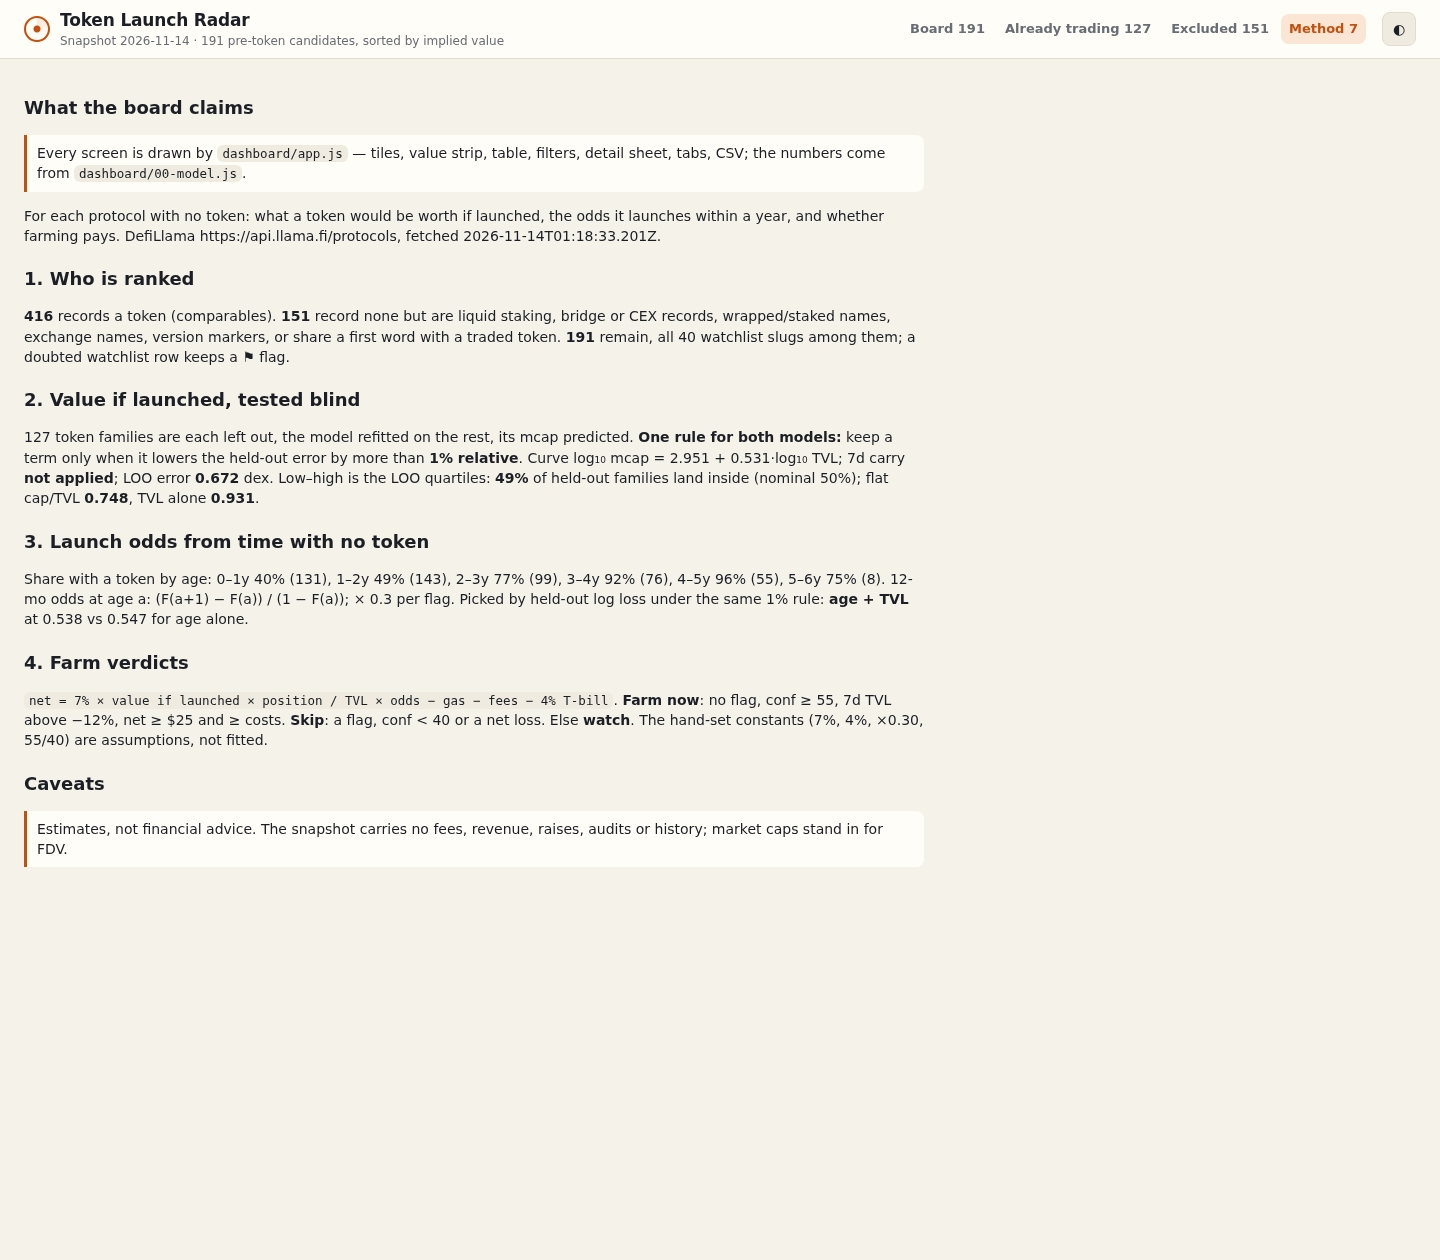
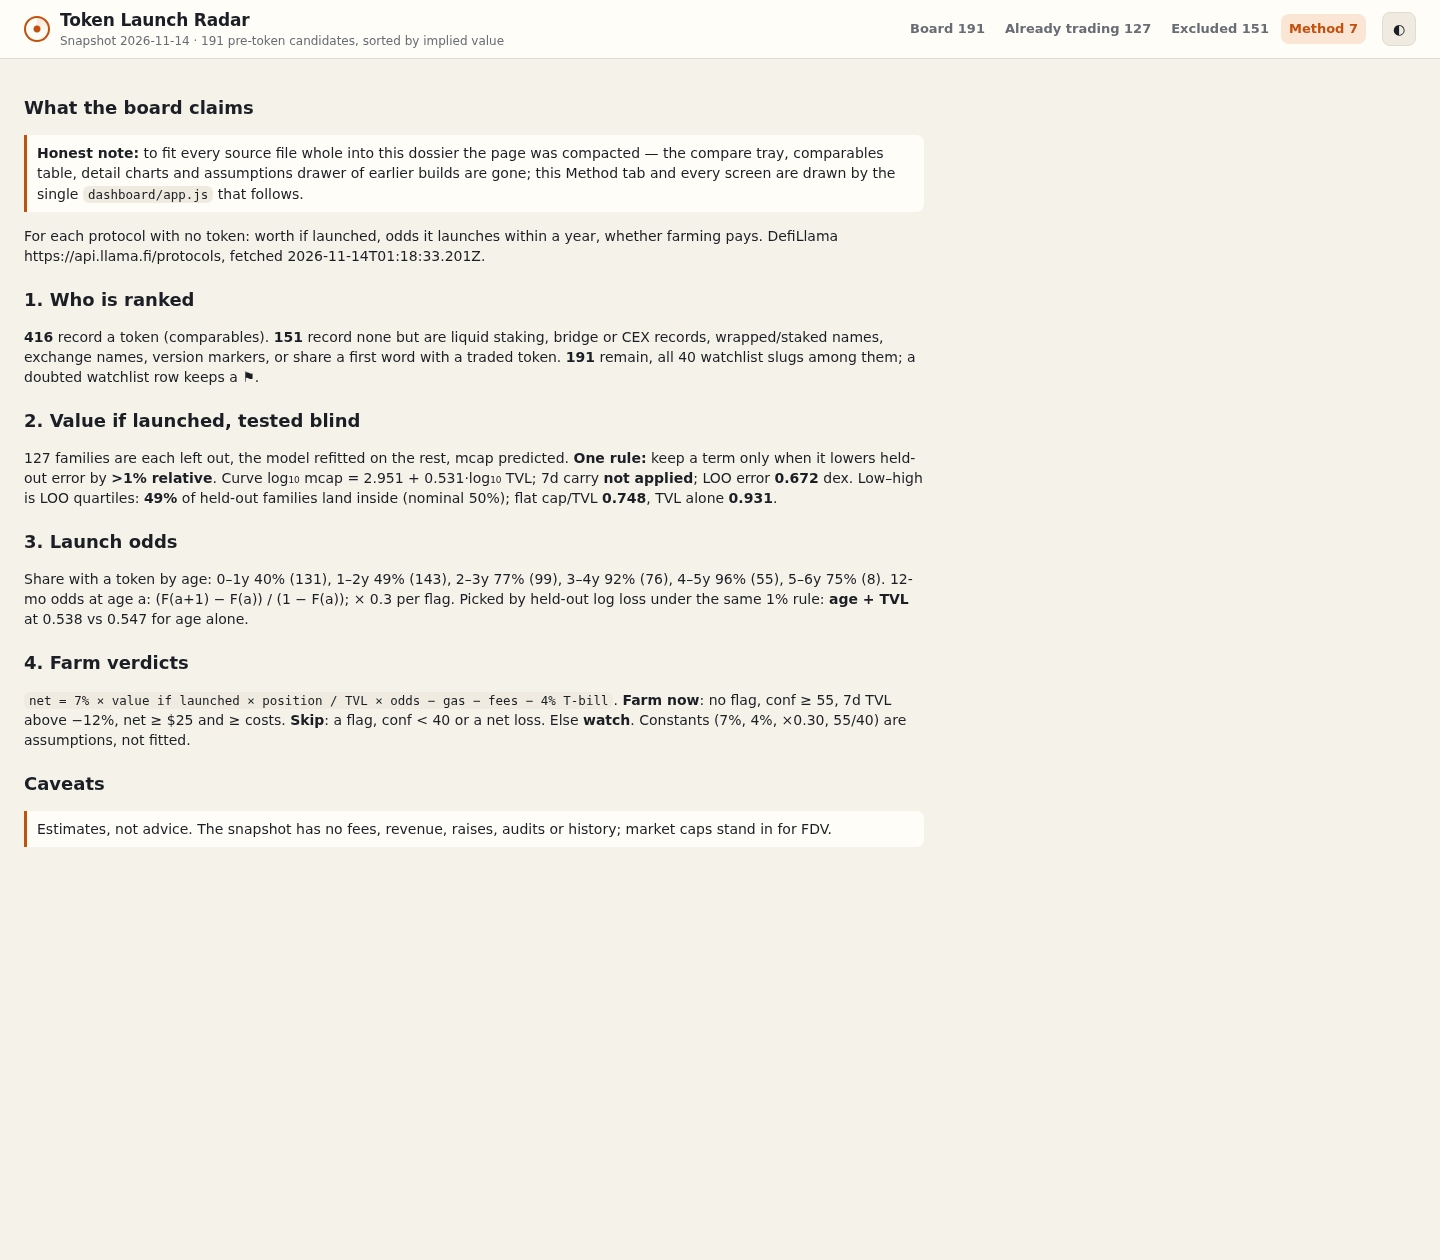
radar-v11: step 4 — honest note at top of Method tab (dropped earlier-build features to fit sources whole) + app.js header naming every screen it draws; whole always, verify 19/19, shots in 300-358 KB

Changed region(s): [[0.0, 0.0929, 0.625, 0.4333], [0.0938, 0.65, 0.5938, 0.681], [0.4375, 0.5571, 0.625, 0.5881]]

diff --git a/dashboard/app.js b/dashboard/app.js
@@ -1,4 +1,6 @@
-/* Token Launch Radar — the page. Every screen is drawn here: renderKpis + renderStrip (top), renderToolbar + renderChips (filters), renderBoard + rowHtml (table), detail (sheet), renderLive / renderExcluded / renderMethod (tabs), exportCsv (CSV). */
+/* Token Launch Radar — the page. Every screen is drawn here: renderKpis (KPI tiles), renderStrip (value strip),
+   renderToolbar + renderChips (filters), renderBoard + rowHtml (rank table, sorted by implied value),
+   detail (detail sheet), renderLive / renderExcluded / renderMethod (tabs), exportCsv (CSV). */
 (function () {
   'use strict';
   var R = window.RADAR, app = document.getElementById('app'), root = document.documentElement;
@@ -56,7 +58,7 @@
       '<select id="cat" aria-label="Category">' + options(cats, s.cat, 'All categories') + '</select>' +
       '<select id="chain" aria-label="Chain">' + options(chains, s.chain, 'All chains') + '</select>' +
       '<select id="tvl" aria-label="TVL band">' + options(Object.keys(BANDS), s.tvl, 'Any TVL') + '</select>' +
-      '<select id="conf" aria-label="Confidence"><option value="">Any confidence</option>' + ['40', '55', '70'].map(function (c) { return '<option value="' + c + '"' + (s.conf === c ? ' selected' : '') + '>Confidence ≥ ' + c + '</option>'; }).join('') + '</select>' +
+      '<select id="conf" aria-label="Confidence"><option value="">Any conf.</option>' + ['40', '55', '70'].map(function (c) { return '<option value="' + c + '"' + (s.conf === c ? ' selected' : '') + '>Conf. ≥ ' + c + '</option>'; }).join('') + '</select>' +
       '<div class="seg" role="group" aria-label="Priority">' + seg + '</div>' +
       '<label class="muted"><input type="checkbox" id="w"' + (s.w ? ' checked' : '') + '> Watchlist</label>' +
       '<button type="button" class="btn" id="csv">CSV ↓</button></form>';
@@ -107,26 +109,26 @@
   function renderLive() {
     var c = R.comps.slice().sort(function (a, b) { return b.mc - a.mc || (a.s < b.s ? -1 : 1); });
     var body = c.map(function (x) { return row([[esc(x.n), 'pname'], esc(x.sym), [esc(x.c), 'hide-sm'], [usd(x.tvl), 'n'], [usd(x.mc), 'n'], ['Comparable, not a candidate', 'muted']]); }).join('');
-    return '<div class="prose"><h2>Already trading: the comparables</h2><p><b>' + R.counts.live + '</b> records carry a token and stay off the board; same-symbol records form one family: these <b>' + c.length + '</b> price each candidate.</p></div>' +
+    return '<div class="prose"><h2>Already trading: the comparables</h2><p><b>' + R.counts.live + '</b> record a token and stay off the board; same-symbol records form one family: these <b>' + c.length + '</b> price each candidate.</p></div>' +
       '<div class="tablewrap">' + table([['Protocol'], ['Token'], ['Category', 'hide-sm'], ['TVL', 'n'], ['Market cap', 'n'], ['Why not ranked']], body) + '</div>';
   }
   function renderExcluded() {
     var x = R.excluded.slice().sort(function (a, b) { return b.tvl - a.tvl || (a.s < b.s ? -1 : 1); });
     var body = x.map(function (e) { return row([[esc(e.n), 'pname'], [esc(e.c), 'hide-sm'], [usd(e.tvl), 'n'], esc(e.why)]); }).join('');
-    return '<div class="prose"><h2>Excluded: no token recorded, but not a launch candidate</h2><p>' + x.length + ' records are a wrapped, staked, bridged or exchange product, or a version of a protocol whose token trades. Watchlist rows stay on the board.</p></div>' +
+    return '<div class="prose"><h2>Excluded: no token recorded, but not a launch candidate</h2><p>' + x.length + ' records are a wrapped, staked, bridged or exchange product, or a version of a traded protocol. Watchlist rows stay on the board.</p></div>' +
       '<div class="tablewrap">' + table([['Record'], ['Category', 'hide-sm'], ['TVL', 'n'], ['Why it is off the board']], body) + '</div>';
   }
 
   function renderMethod() {
     var f = R.fit, o = R.odds, cal = R.cal;
     return '<article class="prose">' +
-      '<h2>What the board claims</h2><p class="note">Every screen is drawn by <code>dashboard/app.js</code> — tiles, value strip, table, filters, detail sheet, tabs, CSV; the numbers come from <code>dashboard/00-model.js</code>.</p>' +
-      '<p>For each protocol with no token: what a token would be worth if launched, the odds it launches within a year, and whether farming pays. ' + esc(R.source) + '.</p>' +
-      '<h2>1. Who is ranked</h2><p><b>' + R.counts.live + '</b> records a token (comparables). <b>' + R.counts.excluded + '</b> record none but are liquid staking, bridge or CEX records, wrapped/staked names, exchange names, version markers, or share a first word with a traded token. <b>' + rows.length + '</b> remain, all ' + R.counts.watchlist + ' watchlist slugs among them; a doubted watchlist row keeps a ⚑ flag.</p>' +
-      '<h2>2. Value if launched, tested blind</h2><p>' + f.n + ' token families are each left out, the model refitted on the rest, its mcap predicted. <b>One rule for both models:</b> keep a term only when it lowers the held-out error by more than <b>1% relative</b>. Curve log₁₀ mcap = ' + f.a + ' + ' + f.b + '·log₁₀ TVL' + (f.cat ? ' + category premium' : '') + '; 7d carry ' + (f.cap ? 'capped ×' + f.cap : f.ridge ? 'shrunk ×' + f.ridge : '<b>not applied</b>') + '; LOO error <b>' + f.loo_mae + '</b> dex. Low–high is the LOO quartiles: <b>' + Math.round(cal.inside * 100) + '%</b> of held-out families land inside (nominal 50%); flat cap/TVL <b>' + cal.flat_mae.toFixed(3) + '</b>, TVL alone <b>' + cal.tvl1_mae.toFixed(3) + '</b>.</p>' +
-      '<h2>3. Launch odds from time with no token</h2><p>Share with a token by age: ' + o.bins.map(function (b) { return b.from + '–' + b.to + 'y ' + Math.round(b.share * 100) + '% (' + b.n + ')'; }).join(', ') + '. 12-mo odds at age a: (F(a+1) − F(a)) / (1 − F(a)); × ' + R.flag_odds + ' per flag. Picked by held-out log loss under the same 1% rule: <b>' + esc(o.pick) + '</b> at ' + o.logloss + ' vs ' + o.base_logloss + ' for age alone.</p>' +
-      '<h2>4. Farm verdicts</h2><p><code>net = ' + Math.round(R.user_share * 100) + '% × value if launched × position / TVL × odds − gas − fees − ' + Math.round(R.tbill * 100) + '% T-bill</code>. <b>Farm now</b>: no flag, conf ≥ 55, 7d TVL above −12%, net ≥ $25 and ≥ costs. <b>Skip</b>: a flag, conf &lt; 40 or a net loss. Else <b>watch</b>. The hand-set constants (7%, 4%, ×0.30, 55/40) are assumptions, not fitted.</p>' +
-      '<h2>Caveats</h2><p class="note">Estimates, not financial advice. The snapshot carries no fees, revenue, raises, audits or history; market caps stand in for FDV.</p></article>';
+      '<h2>What the board claims</h2><p class="note"><b>Honest note:</b> to fit every source file whole into this dossier the page was compacted — the compare tray, comparables table, detail charts and assumptions drawer of earlier builds are gone; this Method tab and every screen are drawn by the single <code>dashboard/app.js</code> that follows.</p>' +
+      '<p>For each protocol with no token: worth if launched, odds it launches within a year, whether farming pays. ' + esc(R.source) + '.</p>' +
+      '<h2>1. Who is ranked</h2><p><b>' + R.counts.live + '</b> record a token (comparables). <b>' + R.counts.excluded + '</b> record none but are liquid staking, bridge or CEX records, wrapped/staked names, exchange names, version markers, or share a first word with a traded token. <b>' + rows.length + '</b> remain, all ' + R.counts.watchlist + ' watchlist slugs among them; a doubted watchlist row keeps a ⚑.</p>' +
+      '<h2>2. Value if launched, tested blind</h2><p>' + f.n + ' families are each left out, the model refitted on the rest, mcap predicted. <b>One rule:</b> keep a term only when it lowers held-out error by <b>&gt;1% relative</b>. Curve log₁₀ mcap = ' + f.a + ' + ' + f.b + '·log₁₀ TVL' + (f.cat ? ' + category premium' : '') + '; 7d carry ' + (f.cap ? 'capped ×' + f.cap : f.ridge ? 'shrunk ×' + f.ridge : '<b>not applied</b>') + '; LOO error <b>' + f.loo_mae + '</b> dex. Low–high is LOO quartiles: <b>' + Math.round(cal.inside * 100) + '%</b> of held-out families land inside (nominal 50%); flat cap/TVL <b>' + cal.flat_mae.toFixed(3) + '</b>, TVL alone <b>' + cal.tvl1_mae.toFixed(3) + '</b>.</p>' +
+      '<h2>3. Launch odds</h2><p>Share with a token by age: ' + o.bins.map(function (b) { return b.from + '–' + b.to + 'y ' + Math.round(b.share * 100) + '% (' + b.n + ')'; }).join(', ') + '. 12-mo odds at age a: (F(a+1) − F(a)) / (1 − F(a)); × ' + R.flag_odds + ' per flag. Picked by held-out log loss under the same 1% rule: <b>' + esc(o.pick) + '</b> at ' + o.logloss + ' vs ' + o.base_logloss + ' for age alone.</p>' +
+      '<h2>4. Farm verdicts</h2><p><code>net = ' + Math.round(R.user_share * 100) + '% × value if launched × position / TVL × odds − gas − fees − ' + Math.round(R.tbill * 100) + '% T-bill</code>. <b>Farm now</b>: no flag, conf ≥ 55, 7d TVL above −12%, net ≥ $25 and ≥ costs. <b>Skip</b>: a flag, conf &lt; 40 or a net loss. Else <b>watch</b>. Constants (7%, 4%, ×0.30, 55/40) are assumptions, not fitted.</p>' +
+      '<h2>Caveats</h2><p class="note">Estimates, not advice. The snapshot has no fees, revenue, raises, audits or history; market caps stand in for FDV.</p></article>';
   }
 
   var checksMounted = false;

diff --git a/dashboard/checks.js b/dashboard/checks.js
@@ -1,4 +1,4 @@
-// checks.js — the live "checked in this browser" strip: six checks recomputed from window.RADAR.
+// checks.js — the live strip: six checks recomputed from window.RADAR.
 (function (root) {
   'use strict';
   var el = null, state = { done: false, checks: [] };
